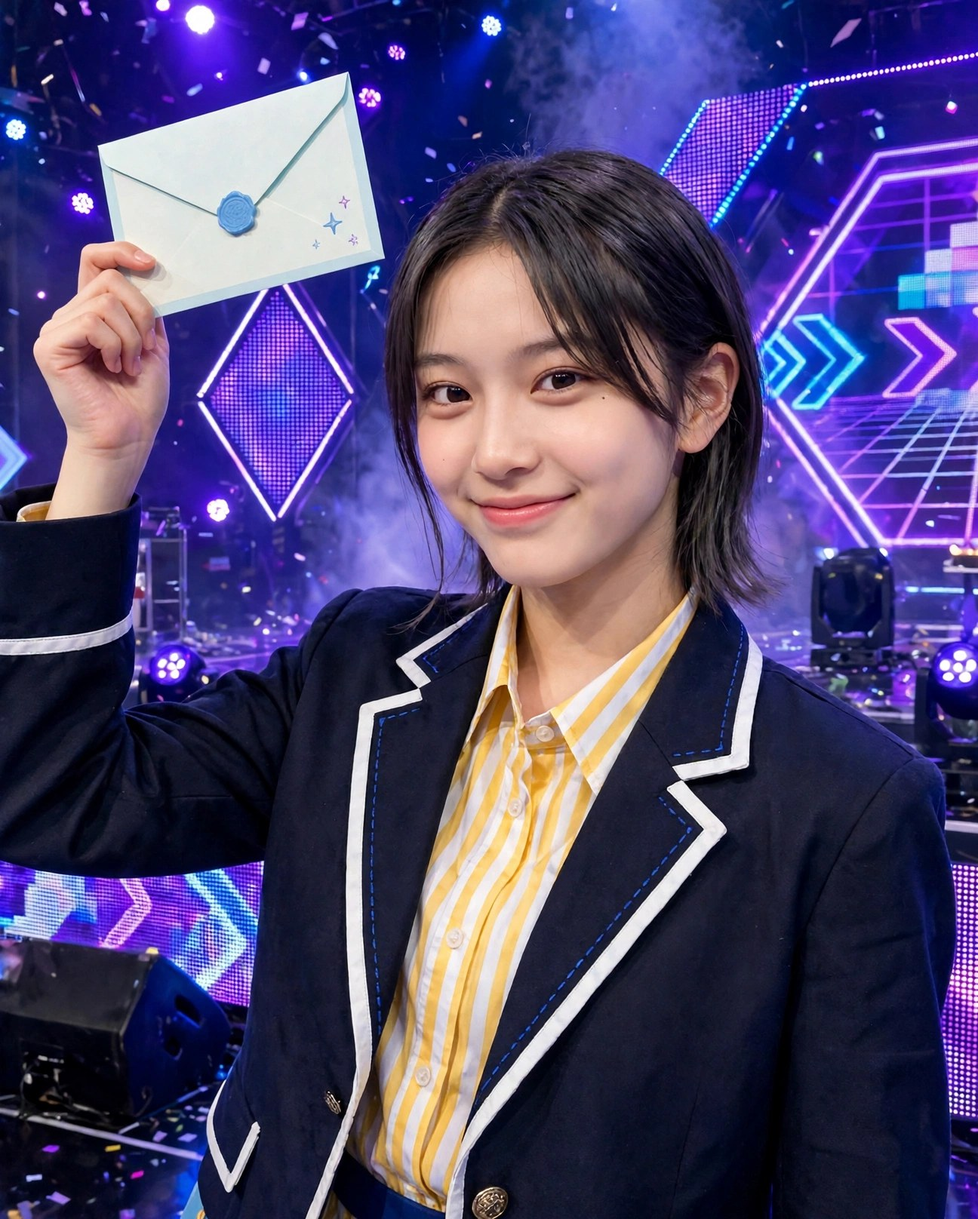
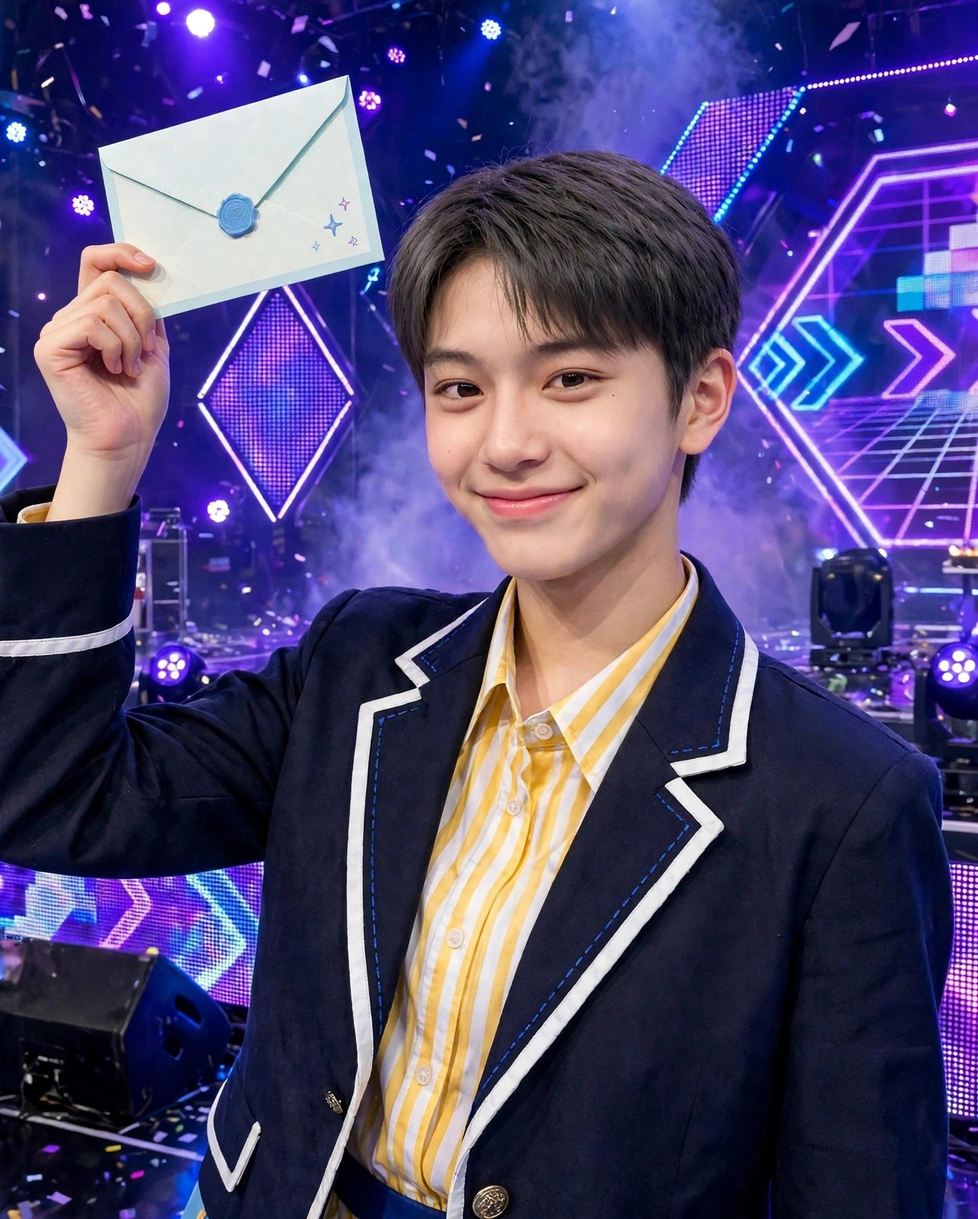
v172: 女の子らしさ監査で逸脱した4点（2023 VERY NICE 3点＋2019 yancha）を男性練習生として読める姿に作り直し

diff --git a/index.html b/index.html
@@ -820,7 +820,7 @@ body{font-family:-apple-system,"Hiragino Kaku Gothic ProN","Noto Sans JP",sans-s
 <script>
 "use strict";
 const $=s=>document.querySelector(s);
-const VER="v171";
+const VER="v172";
 /* ============ state ============ */
 const DEF={idx:0,started:false,consented:false,soundOn:true,
  g:{iwakan:0,bare:0,todoita:0,uta:8,dance:4,ishi:50},
@@ -2600,7 +2600,7 @@ function renderSettings(tab){setTab=tab;document.querySelectorAll("#set-tabs but
  <div class="srow"><span>到達した結末</span><span class="sv">${S.trueEnd?"TRUE END ― 現在":S.normalEnd?"END ― 通常現在":S.loopBad?"BAD END ― ループ継続":S.bareEnd?"END ― 秘密バレIF":S.ridatsuEnd?"END ― 離脱した現在":"（まだ到達していません）"}</span></div>
  <div class="srow"><span>サウンド</span><span class="sv"><button id="snd-btn" style="background:${S.soundOn!==false?"#17172a":"#c6c6d4"};color:#fff;border:none;border-radius:999px;padding:6px 18px;font-size:12.5px;font-weight:700;cursor:pointer">${S.soundOn!==false?"ON":"OFF"}</button></span></div>
  <div class="srow"><span>フィクション</span><span class="sv">実在の記録をもとにした創作です</span></div>
- <div class="srow"><span>アップデート</span><span class="sv">v16 サウンドと画面遷移／v17 差分再演REPLAYとDiff時代別表示／v18 現在の小さな変化／v19 トークのスレッドとフリーチャット／v20・v23・v32 場面カットの追加／v21 日常回（食堂の夜・売店の夜）／v22 番組アプリの情報デザイン／v24 ホーム背景の時代連動と進行％／v25 タイトルのスライドショー／v26 彼の画面のカウンタ／v27 ロック画面の通知スタック／v28 写真の全画面ビューア／v30 章ごとの記録カード／v31 フィナーレ直前の彼の視点／v33 フリーチャットの時代別応答／v34 投票レシート／v35 ミッション進捗バー／v36 ゲージの危険域表示／v37 選んだ記録の判別表示／v38 台帳の時代別表示／v39 Keepsakeの時代バッジ／v41 章名つきロック画面／v42 トークの新着バッジ／v43 名簿の詳細パネル／v44 写真のスワイプ送り／v45 BGMの時代連動／v46 順位・差分の専用SE／v47 長押し早送り／v48 章セレクト／v50 REPLAY再演の追加／v52 日常回（コンビニの夜）／v53 タイトル通知のセーブ連動／v54 アプリアイコンのバッジ／v55 主人公の正式名「三浦渚央」と2019プロフィールの新フェイス差し替え／v56〜v59 プロフィール・場面カットの新フェイス再生成／v60 カード画角の統一（頭部55〜60%）と三浦渚央の順位表示／v61 名簿メモへの順位追記と凡例／v62 周B順位発表の彼の視点／v63 ストーリーバナーのサムネ時代連動／v64 タイトルに正式名／v65 ロック画面に順位通知／v66 情報タブに順位の記録／v67 順位行の文字色修正／v68 現在の小さな変化（順位の残響）／v69 写真メモに順位結果／v70 節目 ― 全アプリ走査／v71 フリーチャットの話題追加／v72 トークのチップ追加／v73・v74 順位タブの空状態整理／v75 順位変動のDiff記録／v76 節目 ― 全アプリ走査／v77 2021周A・初回ステージ後に彼の画面を追加／v78 2023周A・ファンカム章に彼の視点（インライン）を追加／v79 2019周A・順位発表式に彼の視点（インライン）を追加／v80 2023周A・VERY NICE本番前に彼の視点（インライン）を追加／v81 2023周A・寮の夜に彼の視点（インライン）を追加／v82 2019周A・届くはずのなかった手紙に彼の視点（インライン）を追加／v83 フリーチャットの話題拡充（2019専用プール＋新キーワード6種＋チップ追加）／v84 周Aの彼の記憶の線引きで全監査（2021・2023到着場面と彼の画面3件を連続した同僚の前提に書き換え）／v85 2019周A・練習室の夜に彼の視点（インライン）を追加／v86 2021周A・寮の一夜に彼の視点（インライン）を追加／v87 2023周A・コンビニの夜に彼の視点（インライン）を追加／v88 台帳・Keepsake・Diffの時代分類を修正（NXD期グループ新設、誤分類6件を是正）／v89 場面カット追加（2023順位発表の夜・face2基準で新規生成）／v90 場面カット追加（2021ファイナルの夜・face2基準で新規生成）／v91 節目 ― 全アプリ走査／v92 日常回「自販機の夜」（2023・周B）を追加／v93 2019周A・レベル分け評価に彼の視点（インライン）を追加／v94 写真アプリに時代別グルーピング（見出し＋枚数）を追加／v95 場面カット追加（NXD期・夜の練習室、face2基準で新規生成）／v96 フリーチャットの時代別プールを拡充（各時代＋2件）／v97 2019周B・発覚に彼の視点（インライン）を追加／v98 2021周B・再会に彼の視点（インライン）を追加／v99 2023周B・発覚に彼の視点（インライン）を追加／v100 節目 ― 全編通しプレイ検証／v101 効果音の配線追加（台帳・Keepsake・彼の視点）／v102 トークに彼のメッセージを3件追加／v103 タイトルのスライドショー拡充（8枚）とホーム背景のNXD期差し替え／v104 2023周B・再会に彼の視点（インライン）を追加／v105 2021周B・売店の夜に彼の視点（インライン）を追加／v106 NXD期・周B「移籍の決断」に彼の視点（インライン）を追加／v107 2023周B・共同作戦に彼の視点（インライン）を追加／v108 2019周B・共同作戦（ツカメ対策）に彼の視点（インライン）を追加／v109 2021周B・共同作戦に彼の視点（インライン）を追加／v110 NXD期・周B「延期の季節 ― 二度目」に彼の視点（インライン）を追加／v111 フリーチャット拡充（キーワード応答3種・チップ2件・現在編プール拡充）／v112 節目 ― 全アプリ走査／v113 2023周B・自販機の夜に彼の視点（インライン）を追加／v114 2019周A・食堂の夜に彼の視点（インライン）を追加／v115 2021周B・順位発表の締めに彼の視点（インライン）を追加／v116 設計ドキュメントの実装状況を更新／v117 場面カット追加（2019食堂の夜・face2基準で新規生成）／v118 場面カット追加（2021売店の夜・face2基準で新規生成）／v119 場面カット追加（2023コンビニの夜・face2基準で新規生成）／v120 背景の差し替え（現在編の冒頭とソロデビューの場面）／v121 節目 ― 全編通しプレイ検証（v101〜v120の追加後）／v122 画像出典メモ（IMAGE_SOURCES.md）に新規カット6点とface2基準を追記／v123 READMEの状態表記を現行（本編完結・公開中）に更新／v124 視覚QAで発見した順位タブの防御的修正（順位値の欠損時に最低ラインへフォールバック）／v125 節目 ― 全画面の視覚QA（撮影確認）／v126 節目 ― 別エンディング到達検証（秘密バレIF・離脱した現在）／v127 節目 ― 全5エンディング到達検証の完了（通常現在・ループ継続BADを追加確認）／v128 設計ドキュメントの実装状況に最終検証結果を追記／v129 READMEの現行版表記を更新／v130 生成メタファイルを .gitignore に追加して作業ツリーを整理／v131 「届くはずのなかった手紙」に背景を設定（食堂カットの引き継ぎを解消）／v132 フリーチャットの応答拡充（キーワード応答8種・時代別プール各+2件・チップ2件を追加）／v133 仕上げのUI調整（ホームのアプリアイコンのラベルの可読性を向上、ストーリー画面のゲージチップを均等な3+3配置に整形）／v134 フリーチャットに語学の話題を追加（中国語・韓国語・英語へのキーワード応答）／v135 節目 ― 朝まで改修の最終版（全アプリ走査・ドキュメント同期）／v136 トークを実物化（1相手=1スレッドに集約・未読バッジ・プレビュー・実物時刻・日付チップ・自分の送信への既読表示。仕組みは『現役アイドル、Tinderやってた件』のLINEと『キープ管理中！』の未読管理から移植）／v137 2021・2023の渚央プロフィールを制服版に統一（創造営の紺制服／ボイプラの淡グレー制服。名簿・順位・パネル・背景・写真の参照を全て profile-uniform 系へ）／v138 ロック画面とホームの実物化（主通知の送信者を実アプリ名にし未読トークがあれば最新メッセージを表示、日付を月日＋曜日の実物形式に、ホームと写真の操作説明文を撤去）／v139 トークをTinder版（v462）LINEと実測比較して一致（バブルの角・色・文字サイズ、入力欄、送信ボタン、日付チップ、一覧の行構成と検索ボックス、スレッドヘッダーのアバター）／v140 トークにLINEアプリのシェルを移植（下部タブバー＋タブ画面を新設。タブの数・並び・切替挙動はTinder版LINEと同一で、ホームタブは三浦渚央のプロフィール＋届いた応援カード＋友だちリストのパネル、ニュースは番組アプリ、その他は設定・記録へ接続）／v141 ロック画面の進化（時計を88px・太字に、通知カードをblur20px＋saturateの実物仕様にして幅を統一、スタック通知のアイコンをアプリ別SVGに分けて出現をスタッガード化。ステータスバーと電池％を追加し、壁紙を時代連動＋緩やかなズームに。下部のライトは白フラッシュが光る実働ボタンに、カメラは写真アプリへ直行。通知はタップで該当アプリ・記録へ遷移）／v142 ホーム画面の進化（Tinder版ホームのページ構成を移植：飾りだったドットを実働の2ページ化にし、横スワイプとドットタップで切替。2ページ目に物語暦のカレンダーウィジェットと時代のカットが切り替わる写真ウィジェットを新設し、記録サマリと次のミッションを移設。ドットの横に検索ピルを追加し、アプリ・記録を検索して直接開けるシートを実装。下部にガラスのドック（トーク／写真／番組アプリ／設定・記録、バッジ連動）を追加。ステータスバーに電池％、壁紙に緩やかなズーム）／v143 ロック画面の通知スタックの隙間を修正（ベースCSSの上マージン34pxがスタック内の通知にも効いて間隔が42pxに広がっていたのを、実物どおり8pxに統一。あわせて通知領域を時計の下〜下部ボタンの上のスクロール領域にして、通知が多くてもライト／カメラのボタンやヒント文字に重ならないようにした）／v144 写真アプリの進化（『現役アイドル、Tinderやってた件』の写真アプリから移植：2列カード型だったグリッドを3列・隙間2px・正方形の実物仕様にし、時代見出し＋枚数のヘッダーと上部のピル型タブ（すべて／時代別で絞り込み）を新設。ビューアはお気に入り（セーブに保持、グリッドにもハート表示）とスライドショーを追加し、送りを循環式から端で止まるクランプ式に変更、キャプション＋差分メモ＋時代＋通し番号のメタ表示とキー操作に対応。複数選択モード（最大4枚）からコラージュを作成でき、ロック画面の壁紙にも設定できる（時代連動に戻す導線つき）。中身の時代別カットと枚数は従来どおり）／v145 アプリアイコンをTinder版の様式に統一（アイコンを全面SVG化し、背景レイヤーまで1枚に収める方式へ。トーク＝LINE・写真・設定・記録はTinder版と同型のアイコンに、番組アプリは金の縦グラデーション＋王冠のグリフで同水準に。アイコンの角丸と影もTinder版の実測値に一致。あわせてラベル用ピルのCSSがドックのアイコンにも漏れて円形になっていた不具合を修正し、ドックでもグリッドと同じ角丸アイコンが並ぶようにした）／v147 渚央の顔を最終基準（本人の写真由来の顔＋クールな髪型）へ差し替え開始。2023編のプロフィール（基準画像そのものへ差し替え、カード用クロップも新基準で作成）と場面カット全8点を基準顔で再生成／v148 2021編を新基準へ差し替え（プロフィールは19歳相当＋創造営制服＋屋外背景で新規生成、カード用クロップも作成。場面カット5点＝daily／practice／ranking-close／study／shop-nightを19歳相当の基準顔で再生成。stageは次版で差し替え予定）／v149 2019編を新基準へ全面差し替え（プロフィールは17歳相当で再生成し直し、カード用クロップも新規作成。場面カット7点＝stage／stage2／dorm／practice／ranking-close／selfie／cafeteriaを17歳相当の基準顔で再生成）。リンクプレビュー用のog:image（新stageから作成）も新設／v150 旧素材（候補ファイル群・旧プロフィール）を保管庫へ退避し、顔素材を新基準のラインに統一（表示内容の変更なし）／v151 2021のステージカットを新顔基準（19歳版）で差し替え、顔の全面差し替えが完了／v153 2021プロフィールに創造営の学員証を追加（メンバーが付けている装着物に合わせた。2019は名札が既存仕様どおり、2023は装着物なしが実物どおり）。<br>v152 全時代のプロフィールをポーズ付きに作り直し（2019＝ガッツポーズの全身ショット、2021＝頬ハートの膝上ショット、2023＝腕組みのウエスト上ショット。顔は新基準のラインを維持し、寄りクロップも新しい全身から作り直し）<br>v154 全身カットの脚の比率を修正（2019・2021の練習室カットを脚長・細身のモデル体型プロポーションで再生成。構図・ポーズ・顔は維持）<br>v155 鼻の大きさを基準顔に修正（2019ステージカットと順位発表カットの鼻を、基準の小さく細い鼻筋＋小さく上向きの鼻先に寄せて再生成。構図・衣装・表情は維持）<br>v156 「彼の画面」を現代のモバイルADV風に作り替え（時代の場面カットをぼかしたシネマティック背景＋暗グラデーション、大翔のアバター＋名前チップのヘッダー、進行は紫ピルをやめてグラデーションのプログレスバー＋控えめな件数表示に。心の声は字幕風の中央テキスト＋ヘアライン区切り、セリフはガラス質の吹き出しカードにし、金枠と紫イタリックを廃止。終わりは白ピルの「戻る」ボタン。本文・分岐・ゲージの仕様は不変。物語内の彼の視点カードも同じ質感に統一）<br>v157 番組アプリのリアル化（お知らせタブを新設し、時代と進行に連動する事務局・投票・コンテンツ通知を掲載。結果のお知らせからは順位タブへ遷移。名簿の詳細をプロフィールページ化：ヒーロー写真＋名前オーバーレイ＋区分・番組の情報行＋順位の記録テーブル（彼の初回12位など史実と周ごとの結果を、発表済みの分だけ表示）＋渚央のスキルバー。順位タブの大翔・渚央の周B行に前回比の変動チップ▲を追加）<br>v158 設定・記録のリアル化（情報タブをiOS設定風に：作品情報／いまの記録／サウンド／履歴のグループカード化、サウンドはピルボタンからiOSトグルスイッチに、長いアップデート履歴は開閉式に収納。表示テキストは全て従来どおり。ゲージ・台帳・Keepsake・Diff・章の各タブはカード型の行＋チップ見出しで履歴・メモ系UIの質感に統一。ゲージ説明や順位計算などの仕様・文言は不変）<br>v162 周Bの記憶ルールを新仕様に統一（彼の記憶は周B開始時＝2019年の再会で大周回Aの全部が一度に戻る。旧仕様「時代ごとに、その時代ぶんが順に戻る」は廃止。2019編の発覚を全部戻った前提の大きな一場面に書き直し、2021・2023編の再会は「その時代の記憶が戻る・既視感から確信」ではなく確認と共同作戦の続きに書き換え。彼の視点・幕間・ロック画面の通知文も同じ前提に統一。ゲージ・分岐・順位計算などの数値仕様は不変）<br>v163 2019の2点（ステージ／順位発表の寄り）の鼻を再修正（v155で小さく寄りすぎていたものを、基準顔の比率どおりの自然な大きさに戻して再生成。顔・構図・衣装は維持。og画像も新しいステージカットから作り直し）<br>v164 2019のプロフィールを実物どおりの素立ちバストショットに戻した（PRODUCE 101 JAPANの公式プロフィールはポーズなしの素立ちが実物のため、v152のガッツポーズ全身は2019に限って撤回。グレーブレザー＋青チェックタイ＋名札は維持し、寄りクロップも新しいバストショットから作り直し。他時代のプロフィールは各時代の公式写真に合わせる原則どおり据え置き）<br>v165 周Bの順位に下限（フロア）を保証（大翔の周B順位は、プレイ内容によらず必ず周Aより上になるよう最低上昇幅を保証：2019は35位以下にならない／2021は14位以下にならない／2023は20位以下にならない。デビュー圏外の上限＝従来どおり。渚央の周B順位36／16／19位が周A 38／18／22位より上であることも全時代で再確認。計算式そのものと、届いた数の扱いなどの仕様文言は不変）<br>v166 楽曲が分かる場面カットの衣装を当時の実物に合わせて作り直し（2021ステージ＝創造営2021・初評級ステージの曲目 MAMAMOO『HIP -Japanese ver.-』でRBWチームが着た赤のスパンコール・オーバーサイズトップス＋黒カーゴに変更。従来の龍刺繍ジャケットは当時の衣装ではないため差し替え。2023ファンカム2点目（エンディング妖精）と新規ステージカット＝BOYS PLANET『VERY NICE』Gグループの実物衣装（白ベレー帽＋オレンジ×白の太ボーダーのラガーシャツ）に変更し、新規カットは周A・周B両方のVERY NICE本番場面の背景に配線。根拠は本人の公式直カムサムネイル等の実物資料）／v167 周Bは二人ともファイナルまで残る仕様に変更（本人の決定）：大翔の周B順位帯をファイナリスト範囲へ（2019：12〜20位／2023：実効14〜18位。2021は従来の計算で12〜14位＝範囲内のため据え置き）、渚央の周B順位を2019：17位・2023：14位に変更（2021：16位は据え置き）。順位行・名簿メモ・彼の視点・現在インタールードのテロップ・2019／2023編Bの順位発表の文章をファイナル到達で整合。デビューできない結末（Canon Lock 第1層）は不変／v168 周B 2019編にコンセプト評価『やんちゃBOYやんちゃGIRL』の場面を追加（本人の確定指定）：史実でも大翔はマッチング投票で同曲のセンター・サブボーカルに選ばれていたが第2回発表36位で脱落し立てなかったため、周Bでは二人とも同じチームで実際に立つ形にした（周Aの渚央は第2回発表で脱落するため登場しない）。衣装は実物（紺の学ラン風ブレザー＋白パイピング＋黄ストライプシャツ＋手紙の小道具）に合わせた新規カットを追加／v169 衣装ルールを訂正（本人の指示）：大翔とまったく同じ衣装はNGで、系統（色味・素材感・コンセプト）だけ合わせて別デザインにする。創造営の赤スパンコールは系統（赤）を保ちつつギラギラを抑えた洗練デザイン（マットな深紅のシャツジャケット＋黒ワイドパンツ）に作り直し。VERY NICEの3点（ファンカム／ステージ／寄り）も大翔と同一だった白ベレー＋太ボーダーラガーをやめ、オレンジ×白の系統を保った別デザイン（細ボーダーのニットポロ＋白ワイドパンツ）に統一して作り直し。2原則は docs/ASSETS_NAO.md の衣装ルールに記録／v170 プロフィール画像の質感を各時代の公式写真に合わせた（本人の指摘「画質がクリアすぎる」）：プロフィール系8点（2019フル／寄り、2021制服／寄り／寄り（人気表示用）、2023制服／寄り／寄り（人気表示用））に、軽い縮小→拡大によるシャープさ低減＋微粒子グレイン＋コントラスト抑制の後処理を時代別に適用。2019を最強に処理。顔そのもの（基準顔・比率）は不変。生成基準マスターの standard-final は対象外／v171 番組アプリの表示修正（タブの折り返しを解消、名簿カードのメタ文の折り返しと高さを統一、名簿詳細を背面が漏れないプロフィールページ表示に変更）</span></div>
+ <div class="srow"><span>アップデート</span><span class="sv">v16 サウンドと画面遷移／v17 差分再演REPLAYとDiff時代別表示／v18 現在の小さな変化／v19 トークのスレッドとフリーチャット／v20・v23・v32 場面カットの追加／v21 日常回（食堂の夜・売店の夜）／v22 番組アプリの情報デザイン／v24 ホーム背景の時代連動と進行％／v25 タイトルのスライドショー／v26 彼の画面のカウンタ／v27 ロック画面の通知スタック／v28 写真の全画面ビューア／v30 章ごとの記録カード／v31 フィナーレ直前の彼の視点／v33 フリーチャットの時代別応答／v34 投票レシート／v35 ミッション進捗バー／v36 ゲージの危険域表示／v37 選んだ記録の判別表示／v38 台帳の時代別表示／v39 Keepsakeの時代バッジ／v41 章名つきロック画面／v42 トークの新着バッジ／v43 名簿の詳細パネル／v44 写真のスワイプ送り／v45 BGMの時代連動／v46 順位・差分の専用SE／v47 長押し早送り／v48 章セレクト／v50 REPLAY再演の追加／v52 日常回（コンビニの夜）／v53 タイトル通知のセーブ連動／v54 アプリアイコンのバッジ／v55 主人公の正式名「三浦渚央」と2019プロフィールの新フェイス差し替え／v56〜v59 プロフィール・場面カットの新フェイス再生成／v60 カード画角の統一（頭部55〜60%）と三浦渚央の順位表示／v61 名簿メモへの順位追記と凡例／v62 周B順位発表の彼の視点／v63 ストーリーバナーのサムネ時代連動／v64 タイトルに正式名／v65 ロック画面に順位通知／v66 情報タブに順位の記録／v67 順位行の文字色修正／v68 現在の小さな変化（順位の残響）／v69 写真メモに順位結果／v70 節目 ― 全アプリ走査／v71 フリーチャットの話題追加／v72 トークのチップ追加／v73・v74 順位タブの空状態整理／v75 順位変動のDiff記録／v76 節目 ― 全アプリ走査／v77 2021周A・初回ステージ後に彼の画面を追加／v78 2023周A・ファンカム章に彼の視点（インライン）を追加／v79 2019周A・順位発表式に彼の視点（インライン）を追加／v80 2023周A・VERY NICE本番前に彼の視点（インライン）を追加／v81 2023周A・寮の夜に彼の視点（インライン）を追加／v82 2019周A・届くはずのなかった手紙に彼の視点（インライン）を追加／v83 フリーチャットの話題拡充（2019専用プール＋新キーワード6種＋チップ追加）／v84 周Aの彼の記憶の線引きで全監査（2021・2023到着場面と彼の画面3件を連続した同僚の前提に書き換え）／v85 2019周A・練習室の夜に彼の視点（インライン）を追加／v86 2021周A・寮の一夜に彼の視点（インライン）を追加／v87 2023周A・コンビニの夜に彼の視点（インライン）を追加／v88 台帳・Keepsake・Diffの時代分類を修正（NXD期グループ新設、誤分類6件を是正）／v89 場面カット追加（2023順位発表の夜・face2基準で新規生成）／v90 場面カット追加（2021ファイナルの夜・face2基準で新規生成）／v91 節目 ― 全アプリ走査／v92 日常回「自販機の夜」（2023・周B）を追加／v93 2019周A・レベル分け評価に彼の視点（インライン）を追加／v94 写真アプリに時代別グルーピング（見出し＋枚数）を追加／v95 場面カット追加（NXD期・夜の練習室、face2基準で新規生成）／v96 フリーチャットの時代別プールを拡充（各時代＋2件）／v97 2019周B・発覚に彼の視点（インライン）を追加／v98 2021周B・再会に彼の視点（インライン）を追加／v99 2023周B・発覚に彼の視点（インライン）を追加／v100 節目 ― 全編通しプレイ検証／v101 効果音の配線追加（台帳・Keepsake・彼の視点）／v102 トークに彼のメッセージを3件追加／v103 タイトルのスライドショー拡充（8枚）とホーム背景のNXD期差し替え／v104 2023周B・再会に彼の視点（インライン）を追加／v105 2021周B・売店の夜に彼の視点（インライン）を追加／v106 NXD期・周B「移籍の決断」に彼の視点（インライン）を追加／v107 2023周B・共同作戦に彼の視点（インライン）を追加／v108 2019周B・共同作戦（ツカメ対策）に彼の視点（インライン）を追加／v109 2021周B・共同作戦に彼の視点（インライン）を追加／v110 NXD期・周B「延期の季節 ― 二度目」に彼の視点（インライン）を追加／v111 フリーチャット拡充（キーワード応答3種・チップ2件・現在編プール拡充）／v112 節目 ― 全アプリ走査／v113 2023周B・自販機の夜に彼の視点（インライン）を追加／v114 2019周A・食堂の夜に彼の視点（インライン）を追加／v115 2021周B・順位発表の締めに彼の視点（インライン）を追加／v116 設計ドキュメントの実装状況を更新／v117 場面カット追加（2019食堂の夜・face2基準で新規生成）／v118 場面カット追加（2021売店の夜・face2基準で新規生成）／v119 場面カット追加（2023コンビニの夜・face2基準で新規生成）／v120 背景の差し替え（現在編の冒頭とソロデビューの場面）／v121 節目 ― 全編通しプレイ検証（v101〜v120の追加後）／v122 画像出典メモ（IMAGE_SOURCES.md）に新規カット6点とface2基準を追記／v123 READMEの状態表記を現行（本編完結・公開中）に更新／v124 視覚QAで発見した順位タブの防御的修正（順位値の欠損時に最低ラインへフォールバック）／v125 節目 ― 全画面の視覚QA（撮影確認）／v126 節目 ― 別エンディング到達検証（秘密バレIF・離脱した現在）／v127 節目 ― 全5エンディング到達検証の完了（通常現在・ループ継続BADを追加確認）／v128 設計ドキュメントの実装状況に最終検証結果を追記／v129 READMEの現行版表記を更新／v130 生成メタファイルを .gitignore に追加して作業ツリーを整理／v131 「届くはずのなかった手紙」に背景を設定（食堂カットの引き継ぎを解消）／v132 フリーチャットの応答拡充（キーワード応答8種・時代別プール各+2件・チップ2件を追加）／v133 仕上げのUI調整（ホームのアプリアイコンのラベルの可読性を向上、ストーリー画面のゲージチップを均等な3+3配置に整形）／v134 フリーチャットに語学の話題を追加（中国語・韓国語・英語へのキーワード応答）／v135 節目 ― 朝まで改修の最終版（全アプリ走査・ドキュメント同期）／v136 トークを実物化（1相手=1スレッドに集約・未読バッジ・プレビュー・実物時刻・日付チップ・自分の送信への既読表示。仕組みは『現役アイドル、Tinderやってた件』のLINEと『キープ管理中！』の未読管理から移植）／v137 2021・2023の渚央プロフィールを制服版に統一（創造営の紺制服／ボイプラの淡グレー制服。名簿・順位・パネル・背景・写真の参照を全て profile-uniform 系へ）／v138 ロック画面とホームの実物化（主通知の送信者を実アプリ名にし未読トークがあれば最新メッセージを表示、日付を月日＋曜日の実物形式に、ホームと写真の操作説明文を撤去）／v139 トークをTinder版（v462）LINEと実測比較して一致（バブルの角・色・文字サイズ、入力欄、送信ボタン、日付チップ、一覧の行構成と検索ボックス、スレッドヘッダーのアバター）／v140 トークにLINEアプリのシェルを移植（下部タブバー＋タブ画面を新設。タブの数・並び・切替挙動はTinder版LINEと同一で、ホームタブは三浦渚央のプロフィール＋届いた応援カード＋友だちリストのパネル、ニュースは番組アプリ、その他は設定・記録へ接続）／v141 ロック画面の進化（時計を88px・太字に、通知カードをblur20px＋saturateの実物仕様にして幅を統一、スタック通知のアイコンをアプリ別SVGに分けて出現をスタッガード化。ステータスバーと電池％を追加し、壁紙を時代連動＋緩やかなズームに。下部のライトは白フラッシュが光る実働ボタンに、カメラは写真アプリへ直行。通知はタップで該当アプリ・記録へ遷移）／v142 ホーム画面の進化（Tinder版ホームのページ構成を移植：飾りだったドットを実働の2ページ化にし、横スワイプとドットタップで切替。2ページ目に物語暦のカレンダーウィジェットと時代のカットが切り替わる写真ウィジェットを新設し、記録サマリと次のミッションを移設。ドットの横に検索ピルを追加し、アプリ・記録を検索して直接開けるシートを実装。下部にガラスのドック（トーク／写真／番組アプリ／設定・記録、バッジ連動）を追加。ステータスバーに電池％、壁紙に緩やかなズーム）／v143 ロック画面の通知スタックの隙間を修正（ベースCSSの上マージン34pxがスタック内の通知にも効いて間隔が42pxに広がっていたのを、実物どおり8pxに統一。あわせて通知領域を時計の下〜下部ボタンの上のスクロール領域にして、通知が多くてもライト／カメラのボタンやヒント文字に重ならないようにした）／v144 写真アプリの進化（『現役アイドル、Tinderやってた件』の写真アプリから移植：2列カード型だったグリッドを3列・隙間2px・正方形の実物仕様にし、時代見出し＋枚数のヘッダーと上部のピル型タブ（すべて／時代別で絞り込み）を新設。ビューアはお気に入り（セーブに保持、グリッドにもハート表示）とスライドショーを追加し、送りを循環式から端で止まるクランプ式に変更、キャプション＋差分メモ＋時代＋通し番号のメタ表示とキー操作に対応。複数選択モード（最大4枚）からコラージュを作成でき、ロック画面の壁紙にも設定できる（時代連動に戻す導線つき）。中身の時代別カットと枚数は従来どおり）／v145 アプリアイコンをTinder版の様式に統一（アイコンを全面SVG化し、背景レイヤーまで1枚に収める方式へ。トーク＝LINE・写真・設定・記録はTinder版と同型のアイコンに、番組アプリは金の縦グラデーション＋王冠のグリフで同水準に。アイコンの角丸と影もTinder版の実測値に一致。あわせてラベル用ピルのCSSがドックのアイコンにも漏れて円形になっていた不具合を修正し、ドックでもグリッドと同じ角丸アイコンが並ぶようにした）／v147 渚央の顔を最終基準（本人の写真由来の顔＋クールな髪型）へ差し替え開始。2023編のプロフィール（基準画像そのものへ差し替え、カード用クロップも新基準で作成）と場面カット全8点を基準顔で再生成／v148 2021編を新基準へ差し替え（プロフィールは19歳相当＋創造営制服＋屋外背景で新規生成、カード用クロップも作成。場面カット5点＝daily／practice／ranking-close／study／shop-nightを19歳相当の基準顔で再生成。stageは次版で差し替え予定）／v149 2019編を新基準へ全面差し替え（プロフィールは17歳相当で再生成し直し、カード用クロップも新規作成。場面カット7点＝stage／stage2／dorm／practice／ranking-close／selfie／cafeteriaを17歳相当の基準顔で再生成）。リンクプレビュー用のog:image（新stageから作成）も新設／v150 旧素材（候補ファイル群・旧プロフィール）を保管庫へ退避し、顔素材を新基準のラインに統一（表示内容の変更なし）／v151 2021のステージカットを新顔基準（19歳版）で差し替え、顔の全面差し替えが完了／v153 2021プロフィールに創造営の学員証を追加（メンバーが付けている装着物に合わせた。2019は名札が既存仕様どおり、2023は装着物なしが実物どおり）。<br>v152 全時代のプロフィールをポーズ付きに作り直し（2019＝ガッツポーズの全身ショット、2021＝頬ハートの膝上ショット、2023＝腕組みのウエスト上ショット。顔は新基準のラインを維持し、寄りクロップも新しい全身から作り直し）<br>v154 全身カットの脚の比率を修正（2019・2021の練習室カットを脚長・細身のモデル体型プロポーションで再生成。構図・ポーズ・顔は維持）<br>v155 鼻の大きさを基準顔に修正（2019ステージカットと順位発表カットの鼻を、基準の小さく細い鼻筋＋小さく上向きの鼻先に寄せて再生成。構図・衣装・表情は維持）<br>v156 「彼の画面」を現代のモバイルADV風に作り替え（時代の場面カットをぼかしたシネマティック背景＋暗グラデーション、大翔のアバター＋名前チップのヘッダー、進行は紫ピルをやめてグラデーションのプログレスバー＋控えめな件数表示に。心の声は字幕風の中央テキスト＋ヘアライン区切り、セリフはガラス質の吹き出しカードにし、金枠と紫イタリックを廃止。終わりは白ピルの「戻る」ボタン。本文・分岐・ゲージの仕様は不変。物語内の彼の視点カードも同じ質感に統一）<br>v157 番組アプリのリアル化（お知らせタブを新設し、時代と進行に連動する事務局・投票・コンテンツ通知を掲載。結果のお知らせからは順位タブへ遷移。名簿の詳細をプロフィールページ化：ヒーロー写真＋名前オーバーレイ＋区分・番組の情報行＋順位の記録テーブル（彼の初回12位など史実と周ごとの結果を、発表済みの分だけ表示）＋渚央のスキルバー。順位タブの大翔・渚央の周B行に前回比の変動チップ▲を追加）<br>v158 設定・記録のリアル化（情報タブをiOS設定風に：作品情報／いまの記録／サウンド／履歴のグループカード化、サウンドはピルボタンからiOSトグルスイッチに、長いアップデート履歴は開閉式に収納。表示テキストは全て従来どおり。ゲージ・台帳・Keepsake・Diff・章の各タブはカード型の行＋チップ見出しで履歴・メモ系UIの質感に統一。ゲージ説明や順位計算などの仕様・文言は不変）<br>v162 周Bの記憶ルールを新仕様に統一（彼の記憶は周B開始時＝2019年の再会で大周回Aの全部が一度に戻る。旧仕様「時代ごとに、その時代ぶんが順に戻る」は廃止。2019編の発覚を全部戻った前提の大きな一場面に書き直し、2021・2023編の再会は「その時代の記憶が戻る・既視感から確信」ではなく確認と共同作戦の続きに書き換え。彼の視点・幕間・ロック画面の通知文も同じ前提に統一。ゲージ・分岐・順位計算などの数値仕様は不変）<br>v163 2019の2点（ステージ／順位発表の寄り）の鼻を再修正（v155で小さく寄りすぎていたものを、基準顔の比率どおりの自然な大きさに戻して再生成。顔・構図・衣装は維持。og画像も新しいステージカットから作り直し）<br>v164 2019のプロフィールを実物どおりの素立ちバストショットに戻した（PRODUCE 101 JAPANの公式プロフィールはポーズなしの素立ちが実物のため、v152のガッツポーズ全身は2019に限って撤回。グレーブレザー＋青チェックタイ＋名札は維持し、寄りクロップも新しいバストショットから作り直し。他時代のプロフィールは各時代の公式写真に合わせる原則どおり据え置き）<br>v165 周Bの順位に下限（フロア）を保証（大翔の周B順位は、プレイ内容によらず必ず周Aより上になるよう最低上昇幅を保証：2019は35位以下にならない／2021は14位以下にならない／2023は20位以下にならない。デビュー圏外の上限＝従来どおり。渚央の周B順位36／16／19位が周A 38／18／22位より上であることも全時代で再確認。計算式そのものと、届いた数の扱いなどの仕様文言は不変）<br>v166 楽曲が分かる場面カットの衣装を当時の実物に合わせて作り直し（2021ステージ＝創造営2021・初評級ステージの曲目 MAMAMOO『HIP -Japanese ver.-』でRBWチームが着た赤のスパンコール・オーバーサイズトップス＋黒カーゴに変更。従来の龍刺繍ジャケットは当時の衣装ではないため差し替え。2023ファンカム2点目（エンディング妖精）と新規ステージカット＝BOYS PLANET『VERY NICE』Gグループの実物衣装（白ベレー帽＋オレンジ×白の太ボーダーのラガーシャツ）に変更し、新規カットは周A・周B両方のVERY NICE本番場面の背景に配線。根拠は本人の公式直カムサムネイル等の実物資料）／v167 周Bは二人ともファイナルまで残る仕様に変更（本人の決定）：大翔の周B順位帯をファイナリスト範囲へ（2019：12〜20位／2023：実効14〜18位。2021は従来の計算で12〜14位＝範囲内のため据え置き）、渚央の周B順位を2019：17位・2023：14位に変更（2021：16位は据え置き）。順位行・名簿メモ・彼の視点・現在インタールードのテロップ・2019／2023編Bの順位発表の文章をファイナル到達で整合。デビューできない結末（Canon Lock 第1層）は不変／v168 周B 2019編にコンセプト評価『やんちゃBOYやんちゃGIRL』の場面を追加（本人の確定指定）：史実でも大翔はマッチング投票で同曲のセンター・サブボーカルに選ばれていたが第2回発表36位で脱落し立てなかったため、周Bでは二人とも同じチームで実際に立つ形にした（周Aの渚央は第2回発表で脱落するため登場しない）。衣装は実物（紺の学ラン風ブレザー＋白パイピング＋黄ストライプシャツ＋手紙の小道具）に合わせた新規カットを追加／v169 衣装ルールを訂正（本人の指示）：大翔とまったく同じ衣装はNGで、系統（色味・素材感・コンセプト）だけ合わせて別デザインにする。創造営の赤スパンコールは系統（赤）を保ちつつギラギラを抑えた洗練デザイン（マットな深紅のシャツジャケット＋黒ワイドパンツ）に作り直し。VERY NICEの3点（ファンカム／ステージ／寄り）も大翔と同一だった白ベレー＋太ボーダーラガーをやめ、オレンジ×白の系統を保った別デザイン（細ボーダーのニットポロ＋白ワイドパンツ）に統一して作り直し。2原則は docs/ASSETS_NAO.md の衣装ルールに記録／v170 プロフィール画像の質感を各時代の公式写真に合わせた（本人の指摘「画質がクリアすぎる」）：プロフィール系8点（2019フル／寄り、2021制服／寄り／寄り（人気表示用）、2023制服／寄り／寄り（人気表示用））に、軽い縮小→拡大によるシャープさ低減＋微粒子グレイン＋コントラスト抑制の後処理を時代別に適用。2019を最強に処理。顔そのもの（基準顔・比率）は不変。生成基準マスターの standard-final は対象外／v171 番組アプリの表示修正（タブの折り返しを解消、名簿カードのメタ文の折り返しと高さを統一、名簿詳細を背面が漏れないプロフィールページ表示に変更）／v172 女の子らしさの監査と修正（本人の指摘）：表示中の渚央カット全点を「男性練習生として読めるか」で監査し、逸脱した4点（2023 VERY NICEの個人ファンカム／ステージ／寄り、2019 やんちゃBOYやんちゃGIRL）を作り直した。基準顔は維持し、髪を短めですっきりした男性ヘアに、表情と雰囲気を少年の爽やかさ側に寄せた。衣装の系統と構図は維持</span></div>
  <div class="pad"><p class="small">エンディングは5種（TRUE現在／通常現在／離脱した現在／秘密バレIF／ループ継続BAD）。結末は、彼の岐路での関わり・手がかり（Keepsakeと届いた数）・男装バレ度・最後の選択で分かれます。なお「デビューしてしまう現在」はIF候補として設計にのみ記録され、本編では採用していません（デビューメンバー構成は不変のため）。</p></div>
  <div class="pad"><button class="btn" id="reset-btn" style="background:#ff3b30">データを消して最初から</button></div>`;
  const rb=$("#reset-btn");if(rb)rb.onclick=()=>{if(confirm("セーブデータを消して最初から始めますか？")){localStorage.removeItem("tlSaveV2");location.reload();}};
